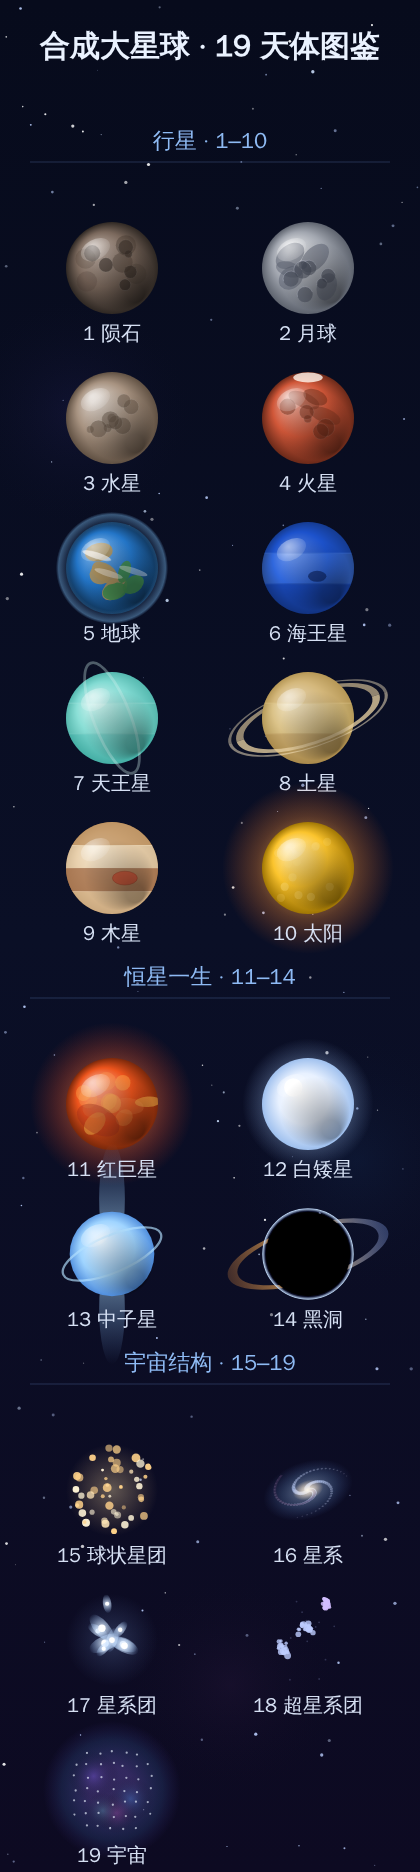
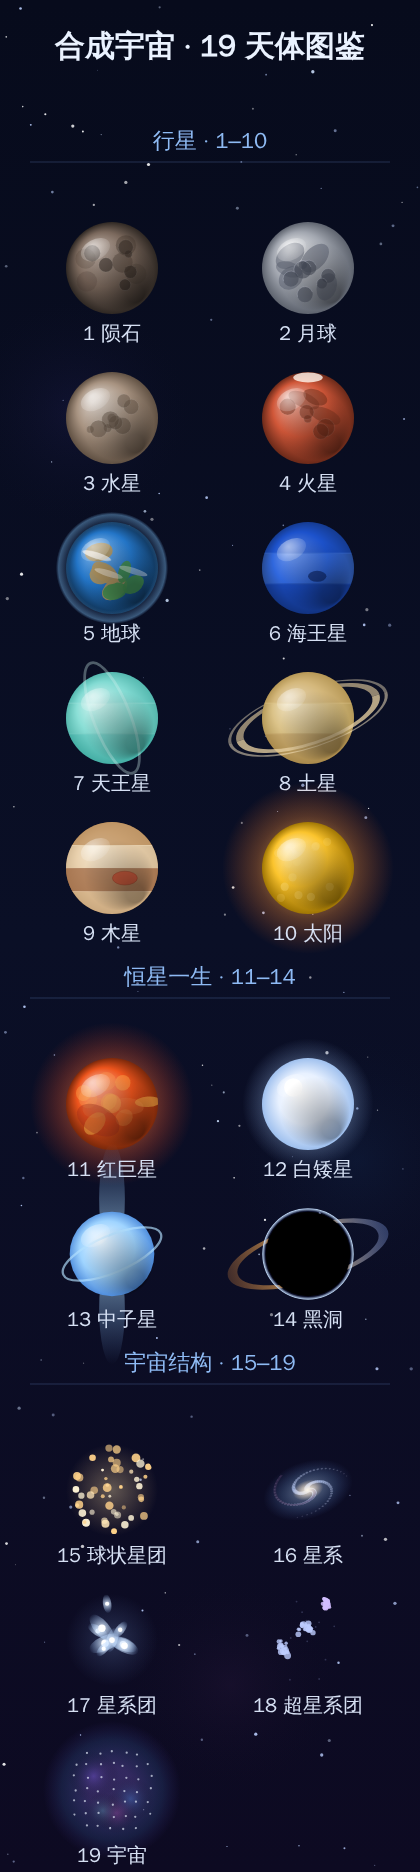
feat(merge-planet): 游戏显示名更名为合成宇宙（id/目录/存档键不变） (2026-10-20)

Changed region(s): [[0.4952, 0.0, 0.8976, 0.031], [0.0929, 0.0, 0.4643, 0.031]]

diff --git a/src/tools/mini-games/manifest.ts b/src/tools/mini-games/manifest.ts
@@ -4,7 +4,7 @@ export const manifest: ToolManifest = {
   id: 'mini-games',
   name: '小游戏合集',
   tagline:
-    '通勤排队午休摸鱼，打开即玩：经典益智（2048、翻牌、华容道）、GPU 加速的炫光游戏（莫比环跑酷、炫光连消、霓虹脉冲、星轨穿梭）与 matter.js 真实物理合成的「合成大星球」——顶部滑轨瞄准投放，同级星球相撞逐级合成，从陨石一路进化到终极宇宙（19 级：行星→恒星一生→宇宙结构）。粒子辉光、震屏与合成音效带来沉浸式体验；全部纯前端离线运行、无广告不打扰，设备不支持高端渲染时自动流畅降级，最高分保存在本机。',
+    '通勤排队午休摸鱼，打开即玩：经典益智（2048、翻牌、华容道）、GPU 加速的炫光游戏（莫比环跑酷、炫光连消、霓虹脉冲、星轨穿梭）与 matter.js 真实物理合成的「合成宇宙」——顶部滑轨瞄准投放，同级星球相撞逐级合成，从陨石一路进化到终极宇宙（19 级：行星→恒星一生→宇宙结构）。粒子辉光、震屏与合成音效带来沉浸式体验；全部纯前端离线运行、无广告不打扰，设备不支持高端渲染时自动流畅降级，最高分保存在本机。',
   category: 'life',
   type: 'web',
   targetUsers: [
@@ -41,7 +41,7 @@ export const manifest: ToolManifest = {
     currency: 'CNY',
     priceCents: 1990,
     features: [
-      { key: 'free-games', label: '免费畅玩：2048、记忆翻牌、炫光连消、莫比环跑酷、合成大星球（霓虹 GPU 系列引流款 + matter.js 物理合成）', free: true },
+      { key: 'free-games', label: '免费畅玩：2048、记忆翻牌、炫光连消、莫比环跑酷、合成宇宙（霓虹 GPU 系列引流款 + matter.js 物理合成）', free: true },
       { key: 'pro-library', label: '专业版：解锁数字华容道等完整经典游戏库', free: false },
       { key: 'neon-library', label: '专业版：解锁霓虹脉冲（节奏）、星轨穿梭（闪避）等 GPU 炫光游戏，并在莫比环跑酷中获得光盾续命与专属卡通角色、进阶特效（持续更新）', free: false }
     ]

diff --git a/src/tools/mini-games/index.vue b/src/tools/mini-games/index.vue
@@ -92,7 +92,7 @@ const NEON: GameDef[] = [
 const ORBIT: GameDef[] = [
   {
     id: 'merge-planet',
-    name: '合成大星球',
+    name: '合成宇宙',
     icon: '🪐',
     desc: '顶部滑轨瞄准投放，同级星球相撞合成进化，从陨石一路合成到终极宇宙',
     pro: false,
@@ -129,7 +129,7 @@ const score = ref(0)
 const combo = ref(0)
 const paused = ref(false)
 
-// —— 合成大星球单槽手动存档（localStorage，与最高分隔离；重开不清档）——
+// —— 合成宇宙（merge-planet）单槽手动存档（localStorage，与最高分隔离；重开不清档）——
 const gameRef = ref<{
   saveGame: () => { ok: boolean; covered: boolean; label: string }
   loadGame: () => boolean
@@ -370,7 +370,7 @@ onBeforeUnmount(() => {
         <div class="pw-icon">{{ paywallFor.icon }}</div>
         <h3>「{{ paywallFor.name }}」是专业版游戏</h3>
         <p class="faint">
-          免费版可畅玩 2048、记忆翻牌、炫光连消、合成大星球。升级专业版一次买断，解锁数字华容道以及霓虹脉冲、
+          免费版可畅玩 2048、记忆翻牌、炫光连消、合成宇宙。升级专业版一次买断，解锁数字华容道以及霓虹脉冲、
           星轨穿梭等更多 GPU 炫光游戏，后续持续加入，无广告。
         </p>
         <button class="btn btn-primary big" :disabled="buying" @click="upgrade">

diff --git a/src/tools/mini-games/gpu-games/merge-planet/merge-planet.vue b/src/tools/mini-games/gpu-games/merge-planet/merge-planet.vue
@@ -1,6 +1,6 @@
 <script setup lang="ts">
 /**
- * 合成大星球（Merge Planet）—— matter.js 真实物理 + Canvas2D 程序化美术。
+ * 合成宇宙（Merge Cosmos，内部 id merge-planet）—— matter.js 真实物理 + Canvas2D 程序化美术。
  *
  * 玩法：顶部滑轨瞄准投放星球，两颗同级接触合成更高一级（共 19 级，陨石→…→宇宙）；
  * 连锁连击加分；合成宇宙（终极）通关大爆发；球体越过警戒线并持续约 1.75s 判负（瞬时擦过不算）。

diff --git a/src/tools/mini-games/gpu-games/merge-planet/game/logic.ts b/src/tools/mini-games/gpu-games/merge-planet/game/logic.ts
@@ -1,5 +1,5 @@
 /**
- * 合成大星球（Merge Planet）—— 纯玩法逻辑（无 DOM / Canvas / matter 依赖，可单测）。
+ * 合成宇宙（Merge Cosmos，内部 id merge-planet）—— 纯玩法逻辑（无 DOM / Canvas / matter 依赖，可单测）。
  *
  * 负责：19 级进化链定义、同级合并判定与升级结果、计分与连击加成、投放冷却/下落占用、
  * 越顶警戒线持续计时（瞬时擦过不死）、最高分纯函数。物理引擎与画面渲染只消费这里的结论。

diff --git a/src/tools/mini-games/gpu-games/merge-planet/game/render.ts b/src/tools/mini-games/gpu-games/merge-planet/game/render.ts
@@ -1,5 +1,5 @@
 /**
- * 合成大星球 —— Canvas2D 程序化美术（无图片素材、无第三方 IP，全部代码实时绘制）。
+ * 合成宇宙（内部 id merge-planet）—— Canvas2D 程序化美术（无图片素材、无第三方 IP，全部代码实时绘制）。
  *
  * 每颗星球：左上光源径向渐变明暗交界 + 环境光阴影 + 顶部高光点 + 专属表面特征
  * （地球海陆/火星红斑/木星条纹/月球环形山/太阳火焰辉光/黑洞吸积盘/土星半透明环）。

diff --git a/src/tools/mini-games/gpu-games/merge-planet/game/save.ts b/src/tools/mini-games/gpu-games/merge-planet/game/save.ts
@@ -1,5 +1,5 @@
 /**
- * 合成大星球（Merge Planet）—— 单槽手动存档（纯逻辑，无 DOM / matter 依赖，可单测）。
+ * 合成宇宙（Merge Cosmos，内部 id merge-planet）—— 单槽手动存档（纯逻辑，无 DOM / matter 依赖，可单测）。
  *
  * - 单一存档槽：再次存档覆盖旧档；与最高分（IndexedDB `fz-mini-games-v1`）完全隔离，
  *   读档 / 重开 / 存档都不清空、不错误改写最高分。

diff --git a/README.md b/README.md
@@ -382,13 +382,13 @@ fangzi/
 
 ## 小游戏合集（mini-games · 2026-10-17 / 炫光 NEON 更新 2026-10-19）
 
-- **简介**：通勤排队、午休摸鱼打开即玩的轻量小游戏合集，共 8 款、分三个分区（经典益智 / 炫光 NEON / 星球进化物理合成）且**卡片展示风格统一**。经典益智 3 款——🔢 2048（键盘/WASD/触摸滑动合并数字）、🃏 记忆翻牌（6/8/12 对三档难度）、🧩 数字华容道（3×3/4×4，从已解态随机合法步洗牌保证可解）。**炫光 NEON · GPU 粒子全屏**系列共四款，全程本地运行、无服务器、零网络：🌀**莫比环跑酷 Möbius Runner**（免费进入，three.js 一指 **3D 莫比乌斯光带跑酷**）、✨**炫光连消 Glow Match**（免费，点选或滑动交换、连锁全屏爆炸）、🎵**霓虹脉冲 Neon Pulse**（专业版，三轨下落节奏）、🌠**星轨穿梭 Orbit Surge**（专业版，按住拖动光体穿越加速粒子光障、生存计分）。**星球进化 · 物理合成**：🪐**合成大星球 Merge Planet**（免费，matter.js 真实物理，顶部滑轨全宽瞄准投放，同级星球相撞逐级合成共 19 级，从陨石一路进化到终极宇宙，连锁加分、重力倾斜、越线持续判负）。WebGL2 实时霓虹粒子/辉光/震屏 + Web Audio 程序化音效与振动，点进即进**纯净全屏**，屏幕上只留分数与一个控制钮，游戏中自动**屏幕常亮（Wake Lock）**；不支持高端渲染时自动降级，低端机也流畅。单局几分钟，最高分按「游戏+难度」存本机，无广告、离线可玩。
+- **简介**：通勤排队、午休摸鱼打开即玩的轻量小游戏合集，共 8 款、分三个分区（经典益智 / 炫光 NEON / 星球进化物理合成）且**卡片展示风格统一**。经典益智 3 款——🔢 2048（键盘/WASD/触摸滑动合并数字）、🃏 记忆翻牌（6/8/12 对三档难度）、🧩 数字华容道（3×3/4×4，从已解态随机合法步洗牌保证可解）。**炫光 NEON · GPU 粒子全屏**系列共四款，全程本地运行、无服务器、零网络：🌀**莫比环跑酷 Möbius Runner**（免费进入，three.js 一指 **3D 莫比乌斯光带跑酷**）、✨**炫光连消 Glow Match**（免费，点选或滑动交换、连锁全屏爆炸）、🎵**霓虹脉冲 Neon Pulse**（专业版，三轨下落节奏）、🌠**星轨穿梭 Orbit Surge**（专业版，按住拖动光体穿越加速粒子光障、生存计分）。**星球进化 · 物理合成**：🪐**合成宇宙 Merge Cosmos**（免费，matter.js 真实物理，顶部滑轨全宽瞄准投放，同级星球相撞逐级合成共 19 级，从陨石一路进化到终极宇宙，连锁加分、重力倾斜、越线持续判负）。WebGL2 实时霓虹粒子/辉光/震屏 + Web Audio 程序化音效与振动，点进即进**纯净全屏**，屏幕上只留分数与一个控制钮，游戏中自动**屏幕常亮（Wake Lock）**；不支持高端渲染时自动降级，低端机也流畅。单局几分钟，最高分按「游戏+难度」存本机，无广告、离线可玩。
 - **目标用户**：碎片时间想放松几分钟的上班族、学生党、通勤/排队人群、不想下载独立游戏 App 也不想看广告的轻度玩家，以及想要更"炫、沉浸"视觉体验的玩家。
 - **使用场景**：午休/通勤/排队几分钟开一局、工作间隙放松大脑、手机上随手玩点无需登录的轻游戏、离线环境打发时间。
 - **解决痛点**：独立游戏 App 要下载注册、广告多、占空间；网页小游戏站广告与追踪泛滥、离线不可用、画面廉价还被浏览器/页面元素占屏；想要一个打开即玩、无干扰、视觉炫、还能记录最高分的轻量入口。
-- **关键词**：小游戏、网页游戏、益智游戏、打发时间、摸鱼、休闲游戏、2048、数字合并、记忆翻牌、翻牌配对、数字华容道、滑块拼图、消消乐、连连看、puzzle、match3、memory、离线游戏、IndexedDB、WebGPU、WebGL2、GPU、粒子、辉光、霓虹、全屏、沉浸、Canvas2d、连消、节奏游戏、音游、闪避、3d跑酷、莫比环、莫比乌斯、Möbius、莫比环跑酷、一指翻转、无限跑酷、卡通跑酷、可选角色、three.js、Web Audio、合成音效、合成大星球、物理合并、星球进化、黑洞、matter.js。
+- **关键词**：小游戏、网页游戏、益智游戏、打发时间、摸鱼、休闲游戏、2048、数字合并、记忆翻牌、翻牌配对、数字华容道、滑块拼图、消消乐、连连看、puzzle、match3、memory、离线游戏、IndexedDB、WebGPU、WebGL2、GPU、粒子、辉光、霓虹、全屏、沉浸、Canvas2d、连消、节奏游戏、音游、闪避、3d跑酷、莫比环、莫比乌斯、Möbius、莫比环跑酷、一指翻转、无限跑酷、卡通跑酷、可选角色、three.js、Web Audio、合成音效、合成宇宙、物理合并、星球进化、黑洞、matter.js。
 - **数据与合规**：全部浏览器本地运行，无第三方脚本/素材（系统 Emoji 作图标；炫光特效、卡通角色、星球美术与音效全部代码实时生成，零图片/音频/模型素材），最高分仅存本机 IndexedDB（合集 `fz-mini-games-v1`；莫比环沿用独立库 `fz-mobius-runner-v1`，历史最高分与角色选择零迁移保留），不上传；three 0.186.1 / @types/three 0.186.0、matter-js 0.20.0 / @types/matter-js 0.20.2 均为 MIT（可商用），无授权风险。
-- **计费**：免费增值（2048 + 记忆翻牌三档 + 炫光连消 + 莫比环跑酷核心玩法 + 合成大星球长期免费）＋专业版买断 ¥19.90（解锁数字华容道及霓虹脉冲、星轨穿梭等 NEON 专业版游戏，并在莫比环跑酷中获得光盾续命与专属原创角色，无广告无订阅；本次未调价）。
+- **计费**：免费增值（2048 + 记忆翻牌三档 + 炫光连消 + 莫比环跑酷核心玩法 + 合成宇宙长期免费）＋专业版买断 ¥19.90（解锁数字华容道及霓虹脉冲、星轨穿梭等 NEON 专业版游戏，并在莫比环跑酷中获得光盾续命与专属原创角色，无广告无订阅；本次未调价）。
 - **位置**：`src/tools/mini-games/`，路由 `/#/t/mini-games`；炫光实现位于 `engine/`（types/quality/fx/shaders/WebGL2/Canvas2D/NeonEngine）、`audio/synth.ts`、`components/FocusStage.vue`（含 Wake Lock 屏幕常亮、特效档位切换）、`gpu-games/glow-match/`、`gpu-games/neon-pulse/`、`gpu-games/orbit-surge/`（各含纯逻辑 `logic.ts` + 组件）。文档见该目录 `docs/`（001 与 007 各一份 guide/postmortem、五阶段文档归档于 `docs/stage/`、真实界面截图于 `docs/shots/`）。炫光为 H 档分 M1/M2 推进：M2 上线霓虹脉冲、星轨穿梭两款专业版 GPU 游戏，重构炫光连消手势（修复“轻点宝石误弹暂停菜单”，改为点选相邻交换 + 短滑交换，菜单仅右上按钮），加入 Wake Lock 与特效档位实时切换；共 23 例炫光单测（全量 **330** 全绿），M1 三视口回归 + M2 专项 E2E（强制 WebGL2：手势回归、付费墙、两款新游真实点按/拖动得分、漏光与撞击结束、重开复位、PC/手机零横向溢出、无 pageerror）全过，vue-tsc 0 错；三款游戏 chunk 均进 SW 预缓存离线可玩。**M3（2026-10-19）**：下线与炫光连消重复的经典「三消」（删除 GameMatch3 入口/组件引用，保留 glow-match 依赖的 `lib/match3-core.ts`；旧 IndexedDB 的 `match3:classic` 历史最高分自然保留、不再展示，无需迁移），经典区与炫光区**卡片风格统一**（同一 .gcard 白底卡片 + 统一的免费/🔒专业版/✓已解锁徽标、同列数），页面内用户指导 `guide.md` 重写为覆盖现存 6 款的完整正确版本，manifest 升 v1.3.0；E2E 原“三消”付费墙/已购用例改测数字华容道。**M4（2026-10-19）**：原独立工具「莫比环 MÖBIUS」**并入本合集**更名为**莫比环跑酷**，作为 NEON 第 4 款（删除独立 `src/tools/mobius-runner/`，工具数 28→27；内核/three/文档/截图迁入 `gpu-games/mobius-runner/`，IndexDB 沿用 `fz-mobius-runner-v1` 最高分零迁移）；玩家由发光六边形改为**原创卡通奔跑小人**——几何体程序化绘制（摆臂迈步、身体起伏前倾、翻转时前空翻、待机呼吸），新增 `game/characters.ts`（5 个**原创**角色：免费电光小子/棉花兔/薄荷猫，专业火焰仔/紫影侠，均无版权 IP）+ `three/Character.ts`，角色选择持久化；舞台 `mobius-runner.vue` 遵循合集 GPU 子游戏契约（props paused/muted/vibrate/particle、emits score/combo/gameover），全屏/WakeLock/暂停/特效档交给 FocusStage，舞台内只保留菜单/教学/结算/角色选择与简版专业版付费墙（续命与专业角色统一走合集 ¥19.90）。全量单测 **342** 全绿、verify:tools=**27**、vue-tsc 0 错；`scripts/e2e-mobius-runner-20261019.mjs` 改为从合集选卡进入，三视口强制 WebGL2 覆盖角色选择（5 角色/免费切换/专业弹墙）、教学、翻转 face 0↔1、HUD 暂停、撞墙结算、¥19.90 付费墙、已购光盾续命、重开与零横向溢出；莫比环三个 chunk（MobiusRenderer/mobius-runner js+css）均进 SW 预缓存离线可玩。后续：WebGPU/WGSL 原生后端、主题/色盲模式、更多原创角色。
 
 > 说明：008 早期作为**独立工具**上线的「莫比环 MÖBIUS」（独立路由 `/#/t/mobius-runner`、单独 ¥12.90）已在 M4 下线并并入小游戏合集，统一更名为**莫比环跑酷**、计费归合集专业版 ¥19.90，主角换成可选的原创卡通奔跑小人；原独立工具目录与其 manifest 已删除，历史最高分通过沿用同一 IndexedDB 库名自动保留。

diff --git a/src/tools/mini-games/guide.md b/src/tools/mini-games/guide.md
@@ -29,7 +29,7 @@
 
 | 游戏 | 玩法 | 是否免费 |
 | --- | --- | --- |
-| 🪐 合成大星球 | 顶部滑轨瞄准投放，两颗同级星球相撞逐级合成进化，共 **19 级**：陨石→月球→水星→火星→地球→海王星→天王星→土星→木星→太阳→红巨星→白矮星→中子星→黑洞→球状星团→星系→星系团→超星系团→宇宙；顶部只投放最低 5 级（陨石~地球，低级更常见），高级全靠合成；连锁加分，**合成宇宙（19）通关** | 免费 |
+| 🪐 合成宇宙 | 顶部滑轨瞄准投放，两颗同级星球相撞逐级合成进化，共 **19 级**：陨石→月球→水星→火星→地球→海王星→天王星→土星→木星→太阳→红巨星→白矮星→中子星→黑洞→球状星团→星系→星系团→超星系团→宇宙；顶部只投放最低 5 级（陨石~地球，低级更常见），高级全靠合成；连锁加分，**合成宇宙（19）通关** | 免费 |
 
 > 原先与「炫光连消」玩法重复的经典「三消」已下线，连消类体验统一由免费的炫光连消承接。
 
@@ -41,7 +41,7 @@
 - **霓虹脉冲**：在三条轨道区域点击/触摸对应轨道击打音符；正中为「完美」，稍偏为「良好」，空点不扣分。
 - **星轨穿梭**：在屏幕任意位置**按住并左右拖动**，光体横向跟随手指；松开也会停在原位。
 - **莫比环跑酷**：点按画面任意处（电脑按空格或 ↑）让小人翻到光带另一面，对准闸门缺口穿过即可；第一次进入会有「30 秒上手」教学。在主菜单点「当前角色 · 更换」可挑选角色。
-- **合成大星球**：待投球固定在**顶部安全区窄滑轨**上，手指在顶部横条（或屏幕任意处）水平拖动改瞄准 X，半透明引导线标出落点列，松手即投；**左右可贴墙全宽投放**（左上分数以半透明衬底胶囊浮于上层，不缩减可投范围）。电脑鼠标横向移动瞄准、点击或空格投放，`←/→` 微调瞄准；`A/D`（或 `Q/E`）模拟倾斜。两颗同级星球接触即合成上一级（共 19 级，顶部只投陨石~地球前 5 级、高级只能合成），连锁有连击加分；星球越过红色警戒线并持续约 1.75 秒才判负（瞬时擦过不算），合成终极宇宙（19）即通关。完整 19 天体图鉴见《用户使用手册》合成大星球章节。
+- **合成宇宙**：待投球固定在**顶部安全区窄滑轨**上，手指在顶部横条（或屏幕任意处）水平拖动改瞄准 X，半透明引导线标出落点列，松手即投；**左右可贴墙全宽投放**（左上分数以半透明衬底胶囊浮于上层，不缩减可投范围）。电脑鼠标横向移动瞄准、点击或空格投放，`←/→` 微调瞄准；`A/D`（或 `Q/E`）模拟倾斜。两颗同级星球接触即合成上一级（共 19 级，顶部只投陨石~地球前 5 级、高级只能合成），连锁有连击加分；星球越过红色警戒线并持续约 1.75 秒才判负（瞬时擦过不算），合成终极宇宙（19）即通关。完整 19 天体图鉴见《用户使用手册》合成宇宙章节。
   - **重力感应（移动端）**：开启后左右倾斜手机（`gamma`）给世界一个横向重力分量，落底星球向低侧缓慢滚动，回正后停下。iOS 13+ 首次需点右上角「重力感应」按钮在手势内授权；拒绝 / 不支持 / 非 HTTPS 静默回退垂直重力，游戏照常可玩，右上角开关可随时关闭。电脑无传感器，用 `A/D` 键产生同样的横向倾斜。
   - **存档 / 读档**：暂停面板可「存档」覆盖单槽旧档（显示存档时间）、「读取存档」续玩；选卡页出现「继续游戏（存档时间）」，刷新或关掉页面后下次可继续。重新开始 / 再来一局只清当前局，不删手动存档；存档与最高分独立。
 - **暂停菜单**：只能由右上角的 ❚❚ 按钮打开，可暂停/继续、重新开始、开关音效、切换特效档位、退出游戏。
@@ -54,7 +54,7 @@
 - **霓虹脉冲**：完美 100 分、良好 60 分，连击越高每击加分越多；漏掉 3 个音符本局结束。
 - **星轨穿梭**：生存每秒 100 分，障碍速度随时间提升，撞到光障本局结束。
 - **莫比环跑酷**：随奔跑距离稳定得分，穿过闸门与收集光屑加分；贴边擦过（near）、临门翻面对齐缺口（perfect）会累积连击倍率（最高 ×8），倍率越高闸门得分越多，撞墙本局结束。
-- **合成大星球**：合成出的等级越高基础分按平方/指数越高（陨石 10 → 宇宙 18000，高级跃迁分差拉大），短时间内连续合成触发连锁，连击 ×1.3 递增；合成终极宇宙（19）通关大爆发，星球越过警戒线持续约 1.75 秒判负。最高分沿用同一本机存档 key，扩链不清档、旧高分直接保留。
+- **合成宇宙**：合成出的等级越高基础分按平方/指数越高（陨石 10 → 宇宙 18000，高级跃迁分差拉大），短时间内连续合成触发连锁，连击 ×1.3 递增；合成终极宇宙（19）通关大爆发，星球越过警戒线持续约 1.75 秒判负。最高分沿用同一本机存档 key，扩链不清档、旧高分直接保留。
 - 最高分按「游戏 + 难度」分别记录，仅保存在本机浏览器（IndexedDB），不上传；清空浏览器站点数据会一并清除。莫比环跑酷沿用独立存档库，即便它从单独工具并入合集，历史最高分也会自动保留。
 
 ## 专业版（买断）

diff --git a/src/tools/mini-games/docs/guide_007_炫酷全屏沉浸小游戏.md b/src/tools/mini-games/docs/guide_007_炫酷全屏沉浸小游戏.md
@@ -88,13 +88,13 @@
 
 ![星轨穿梭（PC，生存 341 分）](shots/shot-12-pc-orbit-surge.png)
 
-**🪐 合成大星球（免费，matter.js 真实物理）**：待投球固定在顶部安全区窄滑轨上，手指在顶部横条（或屏幕任意处）水平拖动改瞄准 X，半透明引导线标出落点列，松手即投；**左右可全宽贴边投放**（无"下一个"预告胶囊，左上分数以半透明衬底浮于上层，不缩减可投范围）。两颗同级天体接触即合成上一级，共 19 级：陨石→月球→水星→火星→地球→海王星→天王星→土星→木星→太阳→红巨星→白矮星→中子星→黑洞→球状星团→星系→星系团→超星系团→宇宙；连锁有连击加分，**合成宇宙即通关**。顶部只会随机出现前 5 级（陨石~地球），更高级天体都靠合成获得；星球越过红色警戒线并持续约 1.75 秒才判负（瞬时擦过不算）。移动端可开启重力感应，左右倾斜手机（gamma）让落底星球向低侧缓慢滚动、回正后停下（iOS 13+ 首次需在手势内授权，拒绝/不支持/非 HTTPS 静默回退垂直重力）；PC 无传感器，用 `A/D` 键模拟同样的横向倾斜。
+**🪐 合成宇宙（免费，matter.js 真实物理）**：待投球固定在顶部安全区窄滑轨上，手指在顶部横条（或屏幕任意处）水平拖动改瞄准 X，半透明引导线标出落点列，松手即投；**左右可全宽贴边投放**（无"下一个"预告胶囊，左上分数以半透明衬底浮于上层，不缩减可投范围）。两颗同级天体接触即合成上一级，共 19 级：陨石→月球→水星→火星→地球→海王星→天王星→土星→木星→太阳→红巨星→白矮星→中子星→黑洞→球状星团→星系→星系团→超星系团→宇宙；连锁有连击加分，**合成宇宙即通关**。顶部只会随机出现前 5 级（陨石~地球），更高级天体都靠合成获得；星球越过红色警戒线并持续约 1.75 秒才判负（瞬时擦过不算）。移动端可开启重力感应，左右倾斜手机（gamma）让落底星球向低侧缓慢滚动、回正后停下（iOS 13+ 首次需在手势内授权，拒绝/不支持/非 HTTPS 静默回退垂直重力）；PC 无传感器，用 `A/D` 键模拟同样的横向倾斜。
 
 **存档 / 读档 / 重开**：暂停面板提供「💾 存档（覆盖旧档）」与「📂 读取存档（含存档时间）」，单槽覆盖并显示存档时间；选卡页检测到有效存档时出现「▶ 继续游戏（存档于 MM-DD HH:mm）」，刷新或关掉页面后下次可从存档继续，完整恢复局面、分数与当前待投球。「↻ 重新开始 / 再来一局」只清空当前局，**不会删除手动存档**，直到再次「存档」才覆盖；存档与本机最高分完全独立、互不影响。
 
 下面是游戏内全部 19 个天体的进化图鉴（手机竖版长图，可保存查看）：同级两个天体碰撞合成下一级，从陨石逐级进化，合成『宇宙』即通关。顶部只会随机出现前 5 级（陨石~地球），更高级天体都靠合成获得。
 
-![合成大星球 19 天体图鉴（手机竖版长图）](shots/mp-codex-mobile.png)
+![合成宇宙 19 天体图鉴（手机竖版长图）](shots/mp-codex-mobile.png)
 
 行星 1–10 ｜ 恒星一生 11–14 ｜ 宇宙结构 15–19
 

diff --git a/src/tools/mini-games/docs/postmortem_007_炫酷全屏沉浸小游戏.md b/src/tools/mini-games/docs/postmortem_007_炫酷全屏沉浸小游戏.md
@@ -234,7 +234,9 @@ WebGPU/WGSL 原生后端；主题/色盲模式。
 - 炫光目标块数当前固定 60，可按难度分档。
 - WebGPU 原生后端、主题/色盲模式仍未做。
 
-## 合成大星球 · 手动存档 / 读档续玩（单槽 localStorage）
+## 合成宇宙（原名「合成大星球」，内部 id merge-planet）· 手动存档 / 读档续玩（单槽 localStorage）
+
+> 显示名由「合成大星球」更名为「合成宇宙」（Merge Cosmos）；目录、注册 id `merge-planet`、存档键 `fangzi:merge-planet:save:v1`、最高分库 `fz-mini-games-v1` 均不变，老用户最高分与存档改名后仍可读。
 
 ### 改动与数据结构
 

diff --git a/src/tools/mini-games/docs/postmortem_001_网页小游戏合集.md b/src/tools/mini-games/docs/postmortem_001_网页小游戏合集.md
@@ -76,7 +76,7 @@
 
 均为 PNG、非 0 字节、可正常打开，与 guide 引用路径及文字一致。
 
-## 追加：合成大星球（merge-planet，2026-10-20，免费引流款）
+## 追加：合成大星球（merge-planet，2026-10-20，免费引流款；后更名为「合成宇宙」，内部 id 不变）
 
 在既有合集内新增一款 matter.js 真实物理合并游戏，**不新增工具数**（verify:tools 仍 = 30），注册进免费数组、kind=gpu 走 FocusStage 全屏，最高分沿用合集 `fz-mini-games-v1` 共享存储（宿主 `@score` 落库，组件不另写库）。
 
